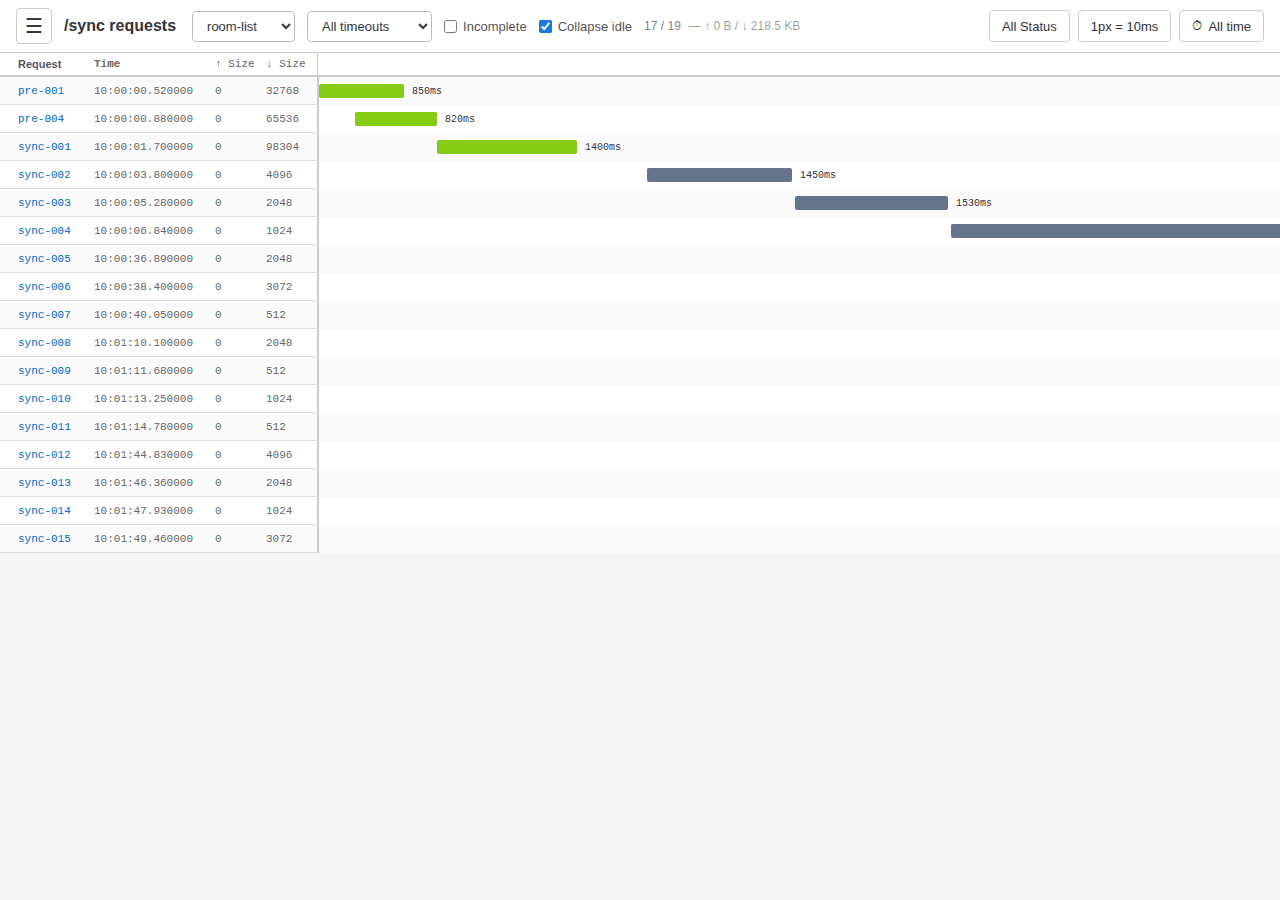
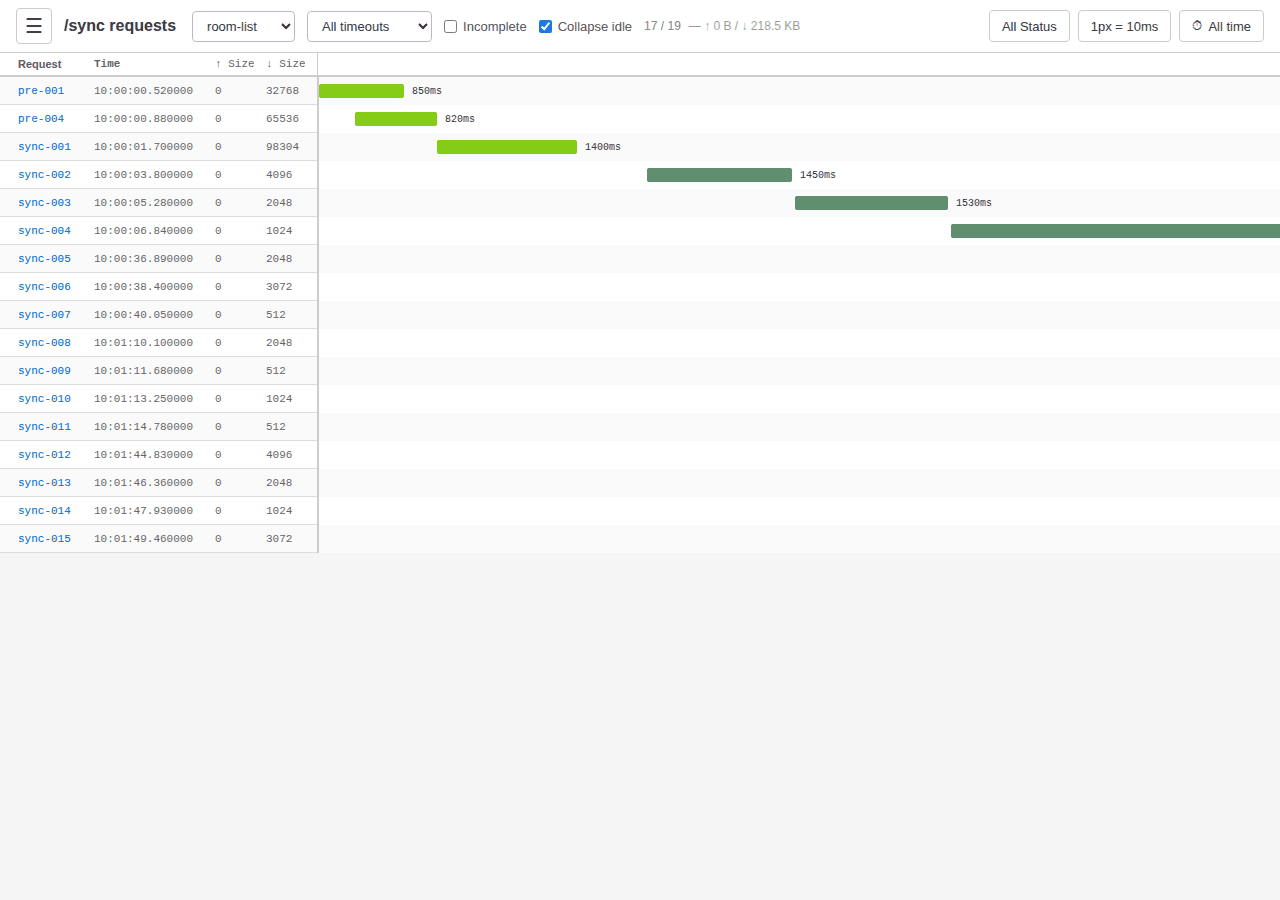
feat(components): expand help overlay with color legends (#69)
* feat(components): expand help overlay with color legends

Make the help overlay cover both keyboard shortcuts and the request/log
color system so users can decode the viewer UI without hunting through
multiple screens.

Split the popup into dedicated shortcut and color panes, add HTTP and
sync-specific legend entries, and align the visible help copy with the
shared shortcut definition for the ? key.

* fix(views): remove collapse-specific log marker colors

The exact and similar collapse markers were niche log-view details that
added extra legend entries and theme tokens without improving clarity.

Remove the dedicated collapse colors from the help overlay, log view,
and shared theme tokens so the remaining help content matches the more
prominent color cues users actually need.

* style(components): tune sync long-poll success color

Shift the long-poll sync success token toward green so it reads as a
successful request while still staying visually distinct from catchup
sync requests and the standard 2xx success palette.

* fix(components): address help overlay self-review issues

Remove the extra inset shadow color from the help overlay pane styling
and align the updated test titles with the scenarios they actually
assert so the branch is clean against the pre-PR review patterns.

* chore: update screenshots

* Apply suggestions from code review

* chore: update screenshots

---------

Changed region(s): [[0.625, 0.2178, 1.0, 0.28], [0.5, 0.1867, 0.625, 0.2178]]

diff --git a/src/components/ShortcutHelpOverlay.tsx b/src/components/ShortcutHelpOverlay.tsx
@@ -14,6 +14,11 @@ interface KeyToken {
   value: string;
 }
 
+interface ColorLegendItem {
+  label: string;
+  color: string;
+}
+
 /**
  * Parse a shortcut label string into renderable tokens.
  *
@@ -81,8 +86,50 @@ const CATEGORY_ORDER: ShortcutCategory[] = [
   'ui',
 ];
 
+const LOG_COLOR_LEGEND: readonly ColorLegendItem[] = [
+  { label: 'Trace', color: 'var(--log-level-trace)' },
+  { label: 'Debug', color: 'var(--log-level-debug)' },
+  { label: 'Info', color: 'var(--log-level-info)' },
+  { label: 'Warn', color: 'var(--log-level-warn)' },
+  { label: 'Error', color: 'var(--log-level-error)' },
+  { label: 'Unknown', color: 'var(--log-level-unknown)' },
+  { label: 'Sentry', color: 'var(--color-sentry)' },
+];
+
+const HTTP_COLOR_LEGEND: readonly ColorLegendItem[] = [
+  { label: '2xx success', color: 'var(--http-2xx)' },
+  { label: '3xx redirect', color: 'var(--http-3xx)' },
+  { label: '4xx client error', color: 'var(--http-4xx)' },
+  { label: '5xx server error', color: 'var(--http-5xx)' },
+  { label: 'Client-side failure', color: 'var(--http-client-error)' },
+  { label: 'Incomplete', color: 'var(--http-incomplete)' },
+];
+
+const SYNC_COLOR_LEGEND: readonly ColorLegendItem[] = [
+  { label: '/sync catchup success', color: 'var(--sync-catchup-success)' },
+  { label: '/sync long-poll success', color: 'var(--sync-longpoll-success)' },
+];
+
 const FOCUSABLE_SELECTOR =
   'a[href], button:not([disabled]), input:not([disabled]), [tabindex]:not([tabindex="-1"])';
+
+function ColorLegendSection({ title, items }: { title: string; items: readonly ColorLegendItem[] }) {
+  return (
+    <section className={styles.section}>
+      <div className={styles.categoryTitle}>{title}</div>
+      {items.map((item) => (
+        <div key={item.label} className={styles.legendRow}>
+          <span
+            aria-hidden="true"
+            className={styles.legendSwatch}
+            style={{ backgroundColor: item.color }}
+          />
+          <div className={styles.legendLabel}>{item.label}</div>
+        </div>
+      ))}
+    </section>
+  );
+}
 
 export function ShortcutHelpOverlay() {
   const { showHelp, toggleHelp } = useKeyboardShortcutContext();
@@ -154,26 +201,38 @@ export function ShortcutHelpOverlay() {
         className={styles.panel}
         role="dialog"
         aria-modal="true"
-        aria-label="Keyboard shortcuts"
+        aria-label="Help"
       >
         <div className={styles.header}>
-          <h2 className={styles.title}>Keyboard Shortcuts</h2>
+          <h2 className={styles.title}>Help</h2>
           <button ref={closeButtonRef} className={styles.closeButton} onClick={toggleHelp} aria-label="Close">
             ✕
           </button>
         </div>
 
-        {CATEGORY_ORDER.filter((cat) => grouped[cat].length > 0).map((cat) => (
-          <section key={cat} className={styles.section}>
-            <div className={styles.categoryTitle}>{SHORTCUT_CATEGORIES[cat]}</div>
-            {grouped[cat].map((shortcut) => (
-              <div key={shortcut.label} className={styles.shortcutRow}>
-                <span className={styles.shortcutDescription}>{shortcut.description}</span>
-                <ShortcutKeys label={shortcut.label} />
-              </div>
+        <div className={styles.columns}>
+          <div className={`${styles.column} ${styles.shortcutsPane}`}>
+            <div className={styles.paneTitle}>Keyboard shortcuts</div>
+            {CATEGORY_ORDER.filter((cat) => grouped[cat].length > 0).map((cat) => (
+              <section key={cat} className={styles.section}>
+                <div className={styles.categoryTitle}>{SHORTCUT_CATEGORIES[cat]}</div>
+                {grouped[cat].map((shortcut) => (
+                  <div key={shortcut.label} className={styles.shortcutRow}>
+                    <span className={styles.shortcutDescription}>{shortcut.description}</span>
+                    <ShortcutKeys label={shortcut.label} />
+                  </div>
+                ))}
+              </section>
             ))}
-          </section>
-        ))}
+          </div>
+
+          <div className={`${styles.column} ${styles.colorsPane}`}>
+            <div className={styles.paneTitle}>Colors</div>
+            <ColorLegendSection title="Log Colors" items={LOG_COLOR_LEGEND} />
+            <ColorLegendSection title="HTTP Colors" items={HTTP_COLOR_LEGEND} />
+            <ColorLegendSection title="Sync Colors" items={SYNC_COLOR_LEGEND} />
+          </div>
+        </div>
       </div>
     </div>,
     document.body,

diff --git a/src/components/ShortcutHelpOverlay.module.css b/src/components/ShortcutHelpOverlay.module.css
@@ -24,9 +24,9 @@
     border: 1px solid var(--border-default);
     border-radius: var(--radius-xl);
     box-shadow: var(--shadow-lg);
-    padding: 24px 28px;
-    width: min(560px, calc(100vw - 32px));
-    max-height: 80vh;
+    padding: 20px 24px;
+    width: min(840px, calc(100vw - 24px));
+    max-height: min(92vh, 960px);
     overflow-y: auto;
     animation: slideUp 140ms ease-out;
 }
@@ -41,7 +41,55 @@
     display: flex;
     align-items: center;
     justify-content: space-between;
-    margin-bottom: 20px;
+    margin-bottom: 16px;
+}
+
+.columns {
+    display: grid;
+    grid-template-columns: minmax(0, 1.5fr) minmax(260px, 0.9fr);
+    gap: 26px;
+    align-items: start;
+}
+
+.column {
+    min-width: 0;
+    border: 1px solid var(--border-default);
+    border-radius: var(--radius-lg);
+    padding: 14px 16px 16px;
+}
+
+.column > .section + .section {
+    margin-top: 14px;
+}
+
+.shortcutsPane {
+    background: linear-gradient(180deg, color-mix(in srgb, var(--bg-secondary) 78%, transparent), transparent 100%);
+}
+
+.colorsPane {
+    background: linear-gradient(180deg, color-mix(in srgb, var(--color-primary-light) 28%, var(--bg-secondary) 72%), transparent 100%);
+    position: relative;
+}
+
+.colorsPane::before {
+    content: '';
+    position: absolute;
+    left: -14px;
+    top: 10px;
+    bottom: 10px;
+    width: 1px;
+    background: linear-gradient(180deg, transparent, var(--border-medium), transparent);
+}
+
+.paneTitle {
+    font-size: var(--font-size-xs);
+    font-weight: 700;
+    letter-spacing: 1.2px;
+    text-transform: uppercase;
+    color: var(--text-primary);
+    margin-bottom: 12px;
+    padding-bottom: 8px;
+    border-bottom: 1px solid var(--border-default);
 }
 
 .title {
@@ -70,7 +118,7 @@
 
 /* Category sections */
 .section {
-    margin-bottom: 18px;
+    min-width: 0;
 }
 
 .section:last-child {
@@ -92,13 +140,35 @@
     align-items: center;
     justify-content: space-between;
     padding: 4px 0;
-    gap: 16px;
+    gap: 12px;
 }
 
 .shortcutDescription {
-    font-size: var(--font-size-lg);
+    font-size: var(--font-size-md);
     color: var(--text-secondary);
     flex: 1;
+    line-height: 1.35;
+}
+
+.legendRow {
+    display: flex;
+    align-items: center;
+    gap: 10px;
+    padding: 5px 0;
+}
+
+.legendSwatch {
+    width: 12px;
+    height: 12px;
+    border-radius: 999px;
+    border: 1px solid var(--border-default);
+    flex-shrink: 0;
+}
+
+.legendLabel {
+    font-size: var(--font-size-md);
+    color: var(--text-primary);
+    line-height: 1.35;
 }
 
 /* Key badge(s) */
@@ -162,4 +232,20 @@
 .chordHint {
     color: var(--text-muted);
     font-size: var(--font-size-base);
+}
+
+@media (max-width: 760px) {
+    .panel {
+        padding: 18px 20px;
+        width: min(560px, calc(100vw - 20px));
+    }
+
+    .columns {
+        grid-template-columns: 1fr;
+        gap: 12px;
+    }
+
+    .colorsPane::before {
+        display: none;
+    }
 }

diff --git a/src/components/__tests__/ShortcutHelpOverlay.test.tsx b/src/components/__tests__/ShortcutHelpOverlay.test.tsx
@@ -42,7 +42,8 @@ describe('ShortcutHelpOverlay', () => {
   it('renders the overlay when showHelp is true', () => {
     renderWithCtx(makeCtx({ showHelp: true }), <ShortcutHelpOverlay />);
     expect(screen.getByRole('dialog')).toBeInTheDocument();
-    expect(screen.getByText('Keyboard Shortcuts')).toBeInTheDocument();
+    expect(screen.getByText('Help')).toBeInTheDocument();
+    expect(screen.getByText('Keyboard shortcuts')).toBeInTheDocument();
   });
 
   it('calls toggleHelp when the close button is clicked', () => {
@@ -111,10 +112,22 @@ describe('ShortcutHelpOverlay', () => {
     expect(screen.getByText('Go to Sync Requests')).toBeInTheDocument();
   });
 
-  it('shows theme and session shortcuts', () => {
+  it('shows theme, session, and help shortcuts', () => {
     renderWithCtx(makeCtx({ showHelp: true }), <ShortcutHelpOverlay />);
     expect(screen.getByText(/cycle theme/i)).toBeInTheDocument();
     expect(screen.getByText(/new session/i)).toBeInTheDocument();
+    expect(screen.getByText('Open help')).toBeInTheDocument();
+  });
+
+  it('shows log, HTTP, and sync color legends in the help overlay', () => {
+    renderWithCtx(makeCtx({ showHelp: true }), <ShortcutHelpOverlay />);
+    expect(screen.getByText('Log Colors')).toBeInTheDocument();
+    expect(screen.getByText('HTTP Colors')).toBeInTheDocument();
+    expect(screen.getByText('Sync Colors')).toBeInTheDocument();
+    expect(screen.getByText('Client-side failure')).toBeInTheDocument();
+    expect(screen.getByText('Sentry')).toBeInTheDocument();
+    expect(screen.getByText('/sync catchup success')).toBeInTheDocument();
+    expect(screen.getByText('/sync long-poll success')).toBeInTheDocument();
   });
 
   // ---------------------------------------------------------------------------

diff --git a/src/styles/foundation.css b/src/styles/foundation.css
@@ -91,8 +91,6 @@
   --log-level-error: #f44336;
   --log-level-error-text: #f48771;
   --log-level-unknown: #858585;
-  --log-collapse-exact: #4caf50;
-  --log-collapse-similar: #64b5f6;
   --log-timestamp: #9cdcfe;
   --log-search-highlight: #ffeb3b;
   --log-search-highlight-text: #000;        /* High-contrast text on the yellow highlight */
@@ -179,7 +177,7 @@
      Distinct colors for /sync request types in the waterfall view.
      ------------------------------------------------------------------------- */
   --sync-catchup-success: #84cc16;     /* Yellow-green: catchup = app speed indicator */
-  --sync-longpoll-success: #64748b;    /* Slate blue-gray: long-poll = background request */
+  --sync-longpoll-success: #5f8f6f;    /* Muted sage: long-poll = background request */
 
   /* -------------------------------------------------------------------------
      HTTP Status Code Colors
@@ -301,7 +299,7 @@
 
   /* Sync Request Colors */
   --sync-catchup-success: #a3e635;     /* Brighter lime for dark mode visibility */
-  --sync-longpoll-success: #94a3b8;    /* Brighter slate for dark mode visibility */
+  --sync-longpoll-success: #7fb091;    /* Brighter sage for dark mode visibility */
 
   /* Idle Gap Band Colors */
   --gap-stripe-a: rgba(255, 255, 255, 0.03);
@@ -411,7 +409,7 @@
 
     /* Sync Request Colors */
     --sync-catchup-success: #a3e635;
-    --sync-longpoll-success: #94a3b8;
+    --sync-longpoll-success: #7fb091;
 
     /* Idle Gap Band Colors */
     --gap-stripe-a: rgba(255, 255, 255, 0.03);

diff --git a/src/views/LogDisplayView.tsx b/src/views/LogDisplayView.tsx
@@ -805,7 +805,7 @@ export function LogDisplayView({ requestFilter = '', defaultShowOnlyMatching: _d
                   <div className={styles.collapseSummaryBar} data-testid="collapse-bar">
                     <span className={styles.logLineNumber} aria-hidden="true" />
                     <span className={styles.logLineTimestamp} aria-hidden="true" />
-                    <span className={`${styles.logLineLevel} ${collapseInfo.type === 'exact' ? styles.collapseExact : styles.collapseSimilar}`}>
+                    <span className={styles.logLineLevel}>
                       {collapseInfo.type === 'exact' ? '=' : '≈'}
                     </span>
                     <span className={styles.collapseSummaryText}>

diff --git a/src/views/LogDisplayView.module.css b/src/views/LogDisplayView.module.css
@@ -479,16 +479,6 @@
     padding: 2px 8px;
 }
 
-/* =  exact-duplicate indicator in the level column */
-.collapseExact {
-    color: var(--log-collapse-exact, #4caf50);
-}
-
-/* ≈  similar-source indicator in the level column */
-.collapseSimilar {
-    color: var(--log-collapse-similar, #64b5f6);
-}
-
 .collapseSummaryText {
     flex: 1;
     overflow: hidden;

diff --git a/src/utils/shortcuts.ts b/src/utils/shortcuts.ts
@@ -109,7 +109,7 @@ export const SHORTCUTS = {
   },
   showHelp: {
     label: '?',
-    description: 'Show keyboard shortcuts help',
+    description: 'Open help',
     category: 'ui',
     requiresNoInputFocus: true,
   },
